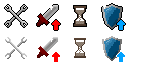
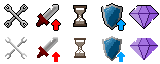
Add invincibility power-up

Changed region(s): [[0.8125, 0.0625, 1.0, 0.4688], [0.8125, 0.5938, 1.0, 0.9375]]

diff --git a/Assets/RoomShuffle/Objects/GameManager/PowerUpManager.cs b/Assets/RoomShuffle/Objects/GameManager/PowerUpManager.cs
@@ -34,6 +34,9 @@ public class PowerUpManager : MonoBehaviour
     [Tooltip("How long the player will have the defense-up power-up for")]
     public float DefenseUpTime = 30f;
 
+    [Tooltip("How long the player will have the invincibility power-up for")]
+    public float InvincibilityTime = 15f;
+
     private void Update()
     {
         //Decrease timers (unless in a safe-room
@@ -42,10 +45,14 @@ public class PowerUpManager : MonoBehaviour
             foreach (var (key, value) in _powerUpsWithTimers.Select(i => (i.Key, i.Value)).ToArray())
                 _powerUpsWithTimers[key] = Math.Max(0f, value - Time.unscaledDeltaTime);
         }
-        
 
-        if (HasPowerUp(PowerUp.DefenseUp))
+
+        if (HasPowerUp(PowerUp.Invincibility))
+            Commons.PlayerHealth.DefensePercentage = 1f;
+
+        else if (HasPowerUp(PowerUp.DefenseUp))
             Commons.PlayerHealth.DefensePercentage = DefenseStrength;
+
         else
             Commons.PlayerHealth.DefensePercentage = 0f;
     }
@@ -83,6 +90,7 @@ public class PowerUpManager : MonoBehaviour
             PowerUp.AttackUp => AttackUpTime,
             PowerUp.SlowDown => SlowDownUnscaledTime,
             PowerUp.DefenseUp => AttackUpTime,
+            PowerUp.Invincibility => InvincibilityTime,
             _ => 0,
         };
     }
@@ -116,5 +124,10 @@ public enum PowerUp
     /// <summary>
     /// Reduces the damage the player takes
     /// </summary>
-    DefenseUp
+    DefenseUp,
+
+    /// <summary>
+    /// Makes the player invincible, and lets the kill enemies on touch
+    /// </summary>
+    Invincibility
 }

diff --git a/Assets/RoomShuffle/Objects/Health/HurtBoxes/PlayerInvincibilityHurtbox.cs b/Assets/RoomShuffle/Objects/Health/HurtBoxes/PlayerInvincibilityHurtbox.cs
@@ -1,0 +1,27 @@
+using System;
+using System.Collections.Generic;
+using System.Linq;
+using System.Text;
+using System.Threading.Tasks;
+
+/// <summary>
+/// The hurtbox the player has that is active when the player is invincible
+/// </summary>
+public class PlayerInvincibilityHurtbox : HurtBox
+{
+    public override bool IgnoresInvincibilityFrames => true;
+    public override bool ContinuousDamage => true;
+
+    public override int GetDamage(Hitbox target)
+    {
+        if (Commons.PowerUpManager.HasPowerUp(PowerUp.Invincibility))
+            return int.MaxValue;
+
+        return 0;
+    }
+
+    public override HurtBoxTypes GetTargets()
+    {
+        return HurtBoxTypes.HurtfulToEnemies;
+    }
+}

diff --git a/Assets/RoomShuffle/Objects/HUD/Item/ItemSlot.cs b/Assets/RoomShuffle/Objects/HUD/Item/ItemSlot.cs
@@ -12,6 +12,7 @@ public class ItemSlot : ItemUIManager
     public Sprite AttackUpSprite;
     public Sprite SlowDownSprite;
     public Sprite DefenseUpSprite;
+    public Sprite InvincibilitySprite;
 
     private void FixedUpdate()
     {
@@ -25,6 +26,7 @@ public class ItemSlot : ItemUIManager
             PowerUp.AttackUp => AttackUpSprite,
             PowerUp.SlowDown => SlowDownSprite,
             PowerUp.DefenseUp => DefenseUpSprite,
+            PowerUp.Invincibility => InvincibilitySprite,
             _ => BlankSprite,
         };
 
